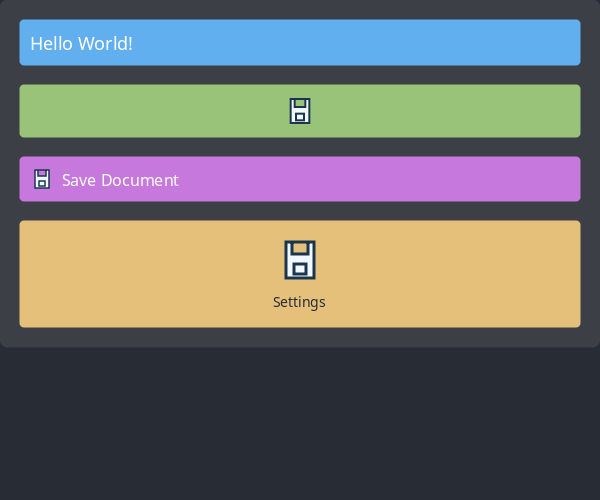
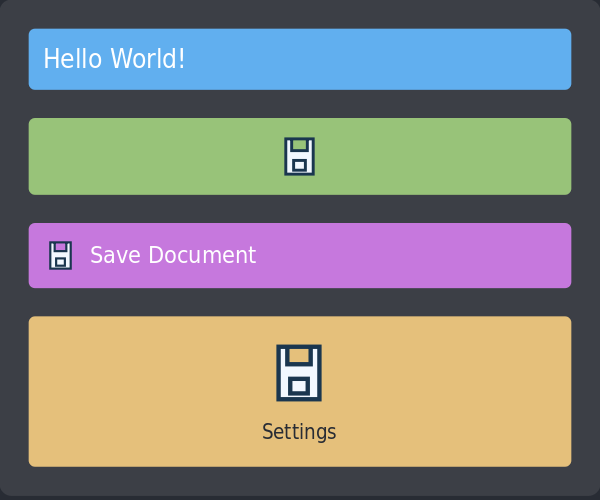
Gallery: regenerate every capture through the MCP script
Images are renderer output at each example's declared size with no
window-manager decoration, so a capture no longer depends on whoever
took it.

Examples that did not fit their window got taller ones rather than more
scrolling: assets_example needs no scroll now, demo_flex and grid_example
need one step. The step overshoots deliberately, since scrolling clamps
at the end and a notch is 36px plus inertia.

Shots can click first, so material_demo walks its four tabs, html_view
shows preview and source, and dialog_example opens a dialog instead of
showing only the buttons that open one.

hello_raw_example loses its entry: it renders identically to
hello_example, down to the same bytes.

diff --git a/tools/capture_screenshots.py b/tools/capture_screenshots.py
@@ -57,8 +57,12 @@ class Shot:
     """One image: where it lands, and how to get the app to show it."""
 
     name: str
-    #  Wheel notches applied before capturing. Negative scrolls down.
+    #  Wheel notches applied before capturing. Negative scrolls down. A
+    #  step larger than the document clamps at the end, which is steadier
+    #  than counting notches: a notch is 36px plus scroll inertia.
     scroll: int = 0
+    #  Exact text of a widget to click first, to reach a tab or a dialog.
+    click: str = ""
 
 
 @dataclass
@@ -72,13 +76,30 @@ class Example:
 #  listed gets one capture under its own name.
 MULTI_SHOT: dict[str, Example] = {
     "demo_flex": Example(
-        shots=[Shot("demo_flex"), Shot("demo_flex_2", scroll=-6)]
+        shots=[Shot("demo_flex"), Shot("demo_flex_2", scroll=-40)]
     ),
     "grid_example": Example(
-        shots=[Shot("grid_example"), Shot("grid_example_2", scroll=-6)]
+        shots=[Shot("grid_example"), Shot("grid_example_2", scroll=-40)]
     ),
-    "assets_example": Example(
-        shots=[Shot("assets_example"), Shot("assets_example_2", scroll=-6)]
+    "font_example": Example(
+        shots=[Shot("font_example"), Shot("font_example_2", scroll=-40)]
+    ),
+    #  One tab holds only a few controls, so the gallery walks them.
+    "material_demo": Example(
+        shots=[Shot("material_demo"),
+               Shot("material_demo_2", click="Forms"),
+               Shot("material_demo_3", click="Settings"),
+               Shot("material_demo_4", click="Controls")]
+    ),
+    #  Preview and Source are the two halves of the widget.
+    "html_view_example": Example(
+        shots=[Shot("html_view_example"),
+               Shot("html_view_example_2", click="Source")]
+    ),
+    #  The buttons alone say nothing about what the example is for.
+    "dialog_example": Example(
+        shots=[Shot("dialog_example"),
+               Shot("dialog_example_2", click="Show Confirm")]
     ),
 }
 
@@ -140,6 +161,26 @@ def capture(name: str, spec: Example, out_dir: Path, timeout: float) -> list[str
         wait_for_ready(app.pid, timeout)
         time.sleep(spec.settle)
         for shot in spec.shots:
+            if shot.click:
+                found = ipc.send_command(
+                    {"command": "find_by_text", "query": shot.click,
+                     "exact": True},
+                    app.pid,
+                )
+                matches = found.get("matches") or []
+                if not matches:
+                    raise RuntimeError(
+                        f"{shot.name}: nothing labelled {shot.click!r} to click")
+                reply = ipc.send_command(
+                    {"command": "click_widget", "id": 0,
+                     "path": matches[0]["path"]},
+                    app.pid,
+                )
+                if reply.get("status") != "ok":
+                    raise RuntimeError(
+                        f"{shot.name}: click failed: "
+                        f"{reply.get('error', 'unknown error')}")
+                time.sleep(0.5)
             if shot.scroll:
                 # An app that rejects the command would otherwise be
                 # captured unscrolled, quietly duplicating the previous
@@ -154,7 +195,8 @@ def capture(name: str, spec: Example, out_dir: Path, timeout: float) -> list[str
                     raise RuntimeError(
                         f"{shot.name}: scroll failed: "
                         f"{reply.get('error', 'unknown error')}")
-                time.sleep(0.4)
+                #  Let the scroll inertia settle before capturing.
+                time.sleep(0.8)
             reply = ipc.send_command({"command": "screenshot"}, app.pid)
             if reply.get("status") != "ok":
                 raise RuntimeError(reply.get("error", "screenshot failed"))

diff --git a/docs/gallery.md b/docs/gallery.md
@@ -1,6 +1,6 @@
 # Example gallery
 
-Every example program in [`examples/`](../examples/), captured as a screenshot. Build any of them with `tools/build_examples.sh <name>` and run from `examples/bin/<name>`.
+Each example program in [`examples/`](../examples/), captured as a screenshot. Build any of them with `tools/build_examples.sh <name>` and run from `examples/bin/<name>`.
 
 ![animated_image_example](../examples/screenshots/animated_image_example.png)
 *`animated_image_example`*
@@ -19,24 +19,25 @@ Every example program in [`examples/`](../examples/), captured as a screenshot. 
 *`demo_flex`*
 
 ![dialog_example](../examples/screenshots/dialog_example.png)
+![dialog_example](../examples/screenshots/dialog_example_2.png)
 *`dialog_example`*
 
 ![font_example](../examples/screenshots/font_example.png)
+![font_example](../examples/screenshots/font_example_2.png)
 *`font_example`*
 
 ![gradient_example](../examples/screenshots/gradient_example.png)
 *`gradient_example`*
 
 ![grid_example](../examples/screenshots/grid_example.png)
+![grid_example](../examples/screenshots/grid_example_2.png)
 *`grid_example`*
 
 ![hello_example](../examples/screenshots/hello_example.png)
 *`hello_example`*
 
-![hello_raw_example](../examples/screenshots/hello_raw_example.png)
-*`hello_raw_example`*
-
 ![html_view_example](../examples/screenshots/html_view_example.png)
+![html_view_example](../examples/screenshots/html_view_example_2.png)
 *`html_view_example`*
 
 ![image_example](../examples/screenshots/image_example.png)
@@ -49,6 +50,9 @@ Every example program in [`examples/`](../examples/), captured as a screenshot. 
 *`list_box_example`*
 
 ![material_demo](../examples/screenshots/material_demo.png)
+![material_demo](../examples/screenshots/material_demo_2.png)
+![material_demo](../examples/screenshots/material_demo_3.png)
+![material_demo](../examples/screenshots/material_demo_4.png)
 *`material_demo`*
 
 ![overflow_example](../examples/screenshots/overflow_example.png)
